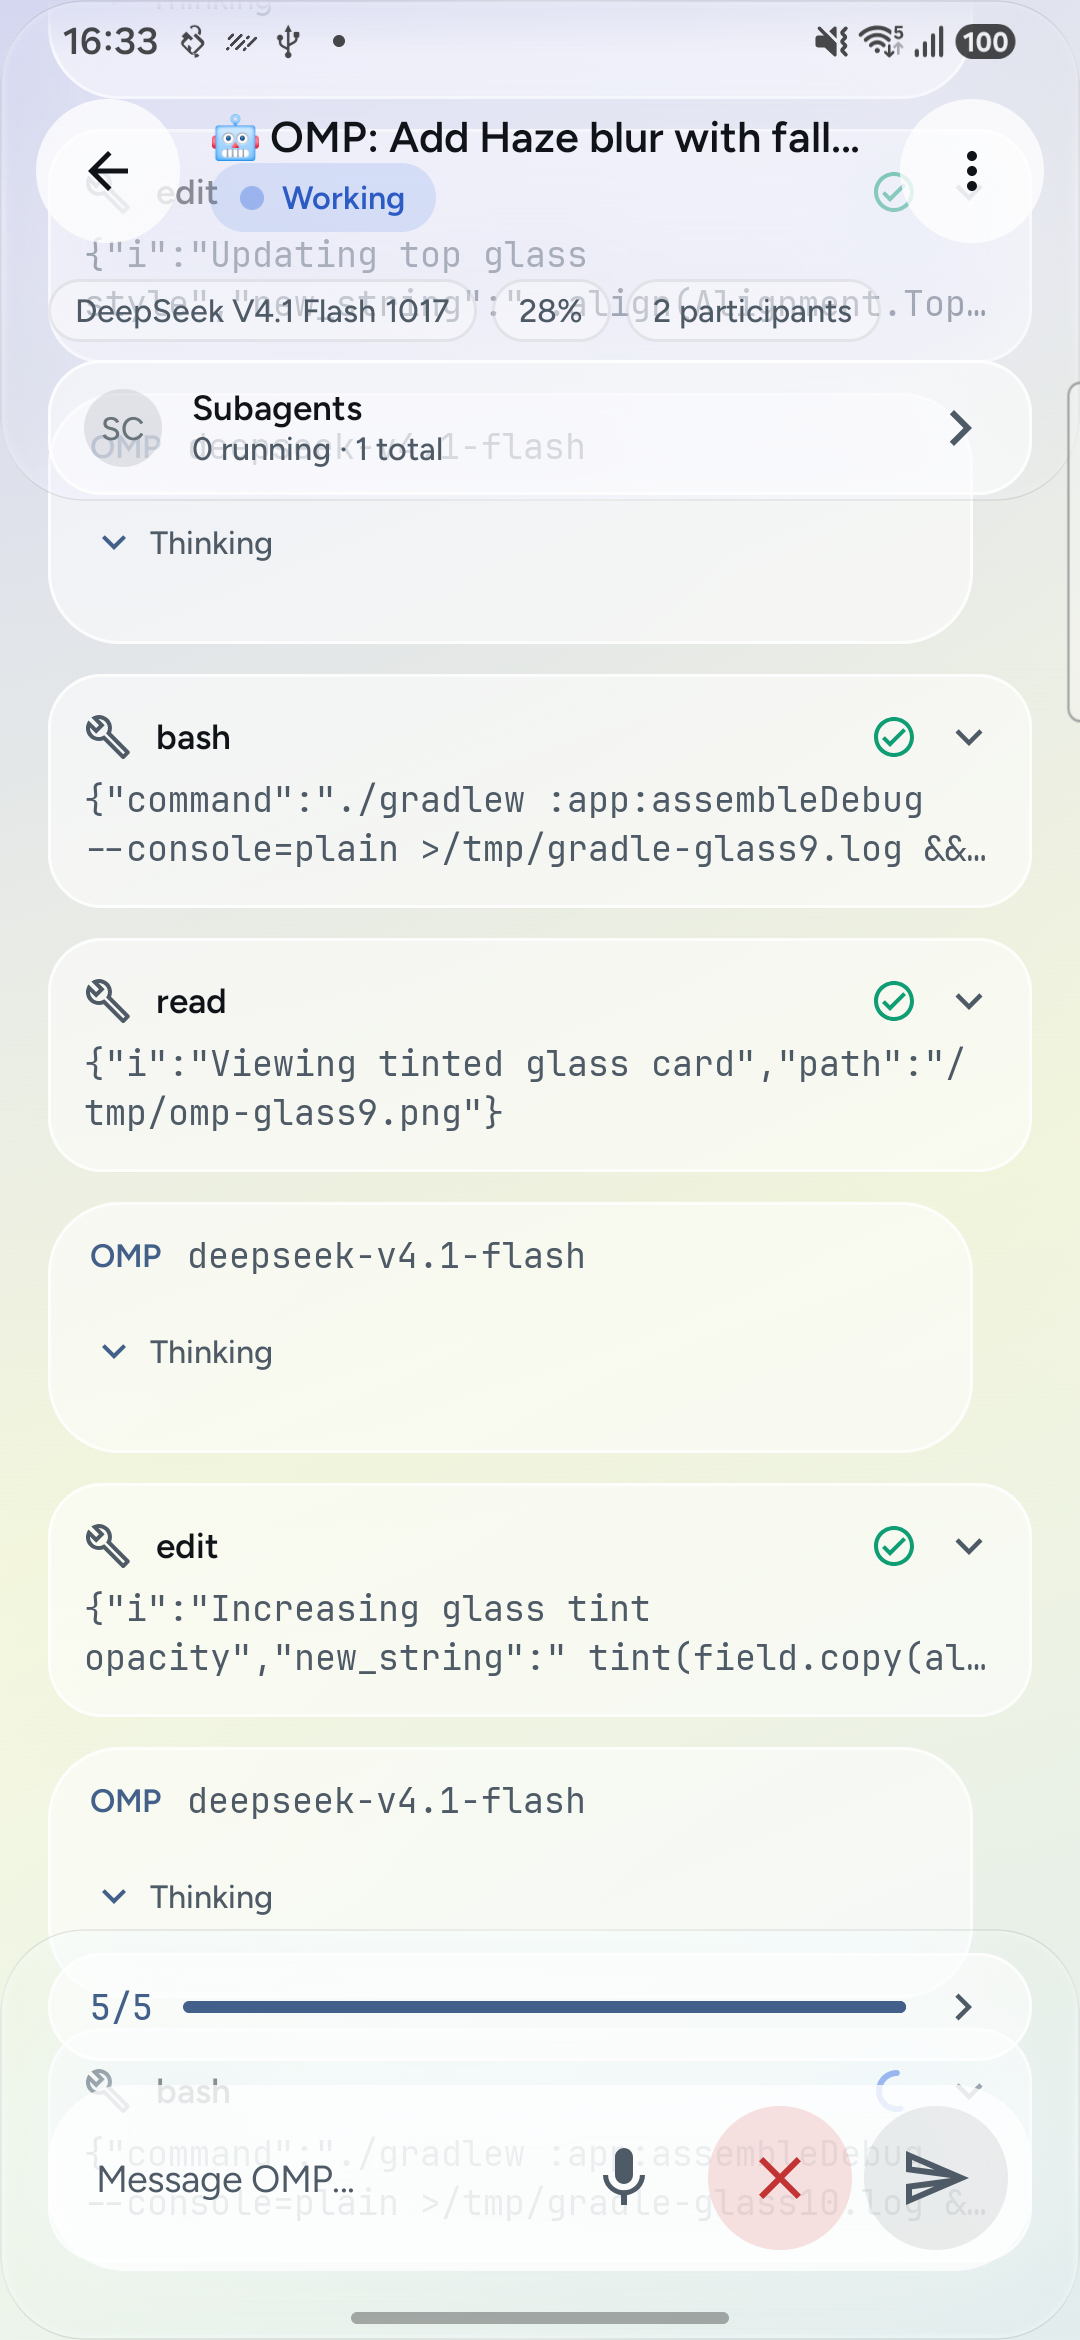
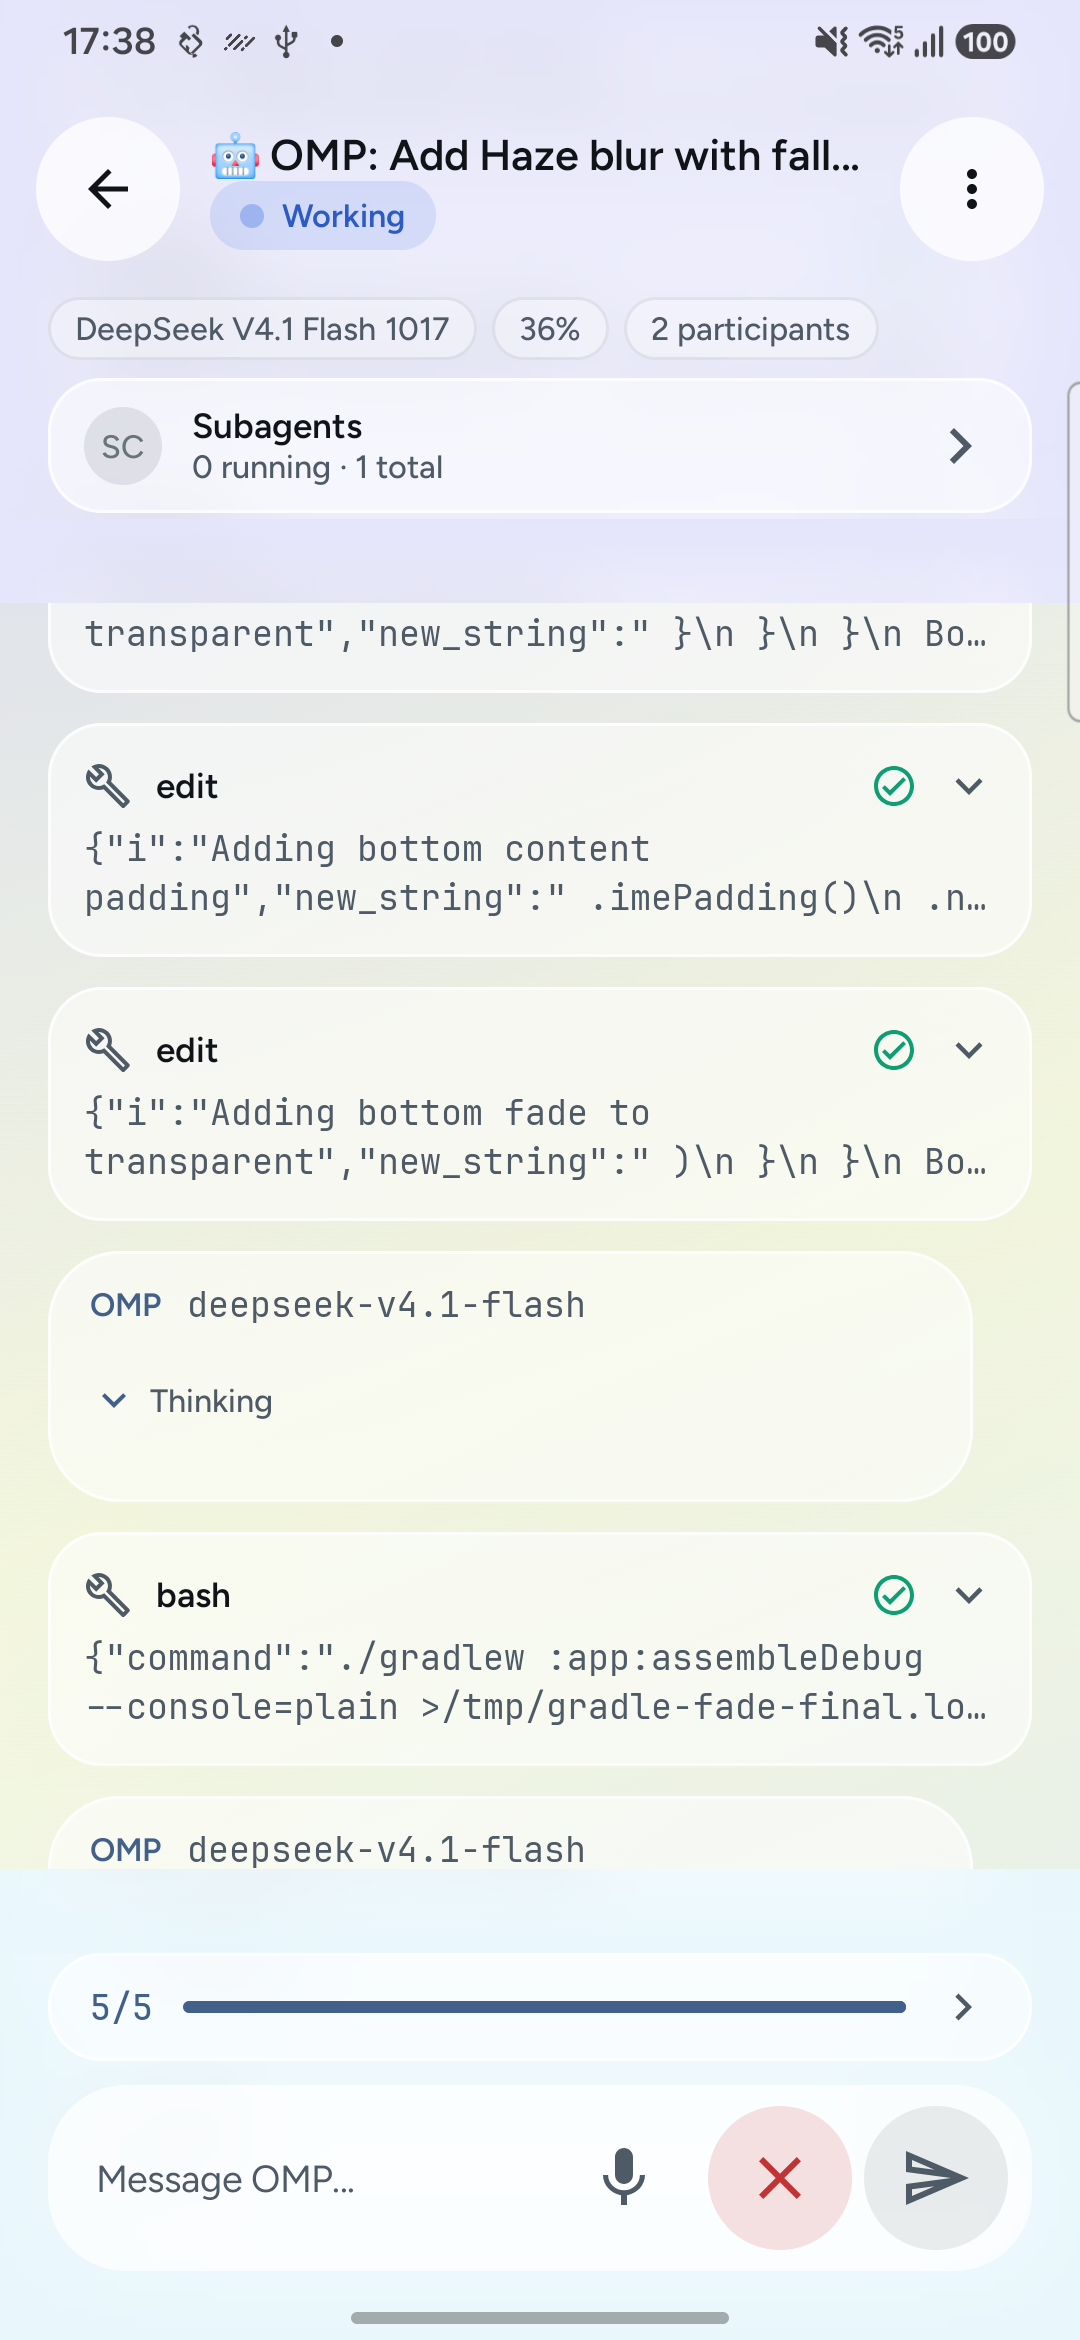
Add fade padding to chat chrome

diff --git a/app/src/main/kotlin/com/ompsessionconnect/ui/detail/SessionDetailScreen.kt b/app/src/main/kotlin/com/ompsessionconnect/ui/detail/SessionDetailScreen.kt
@@ -1,7 +1,4 @@
-@file:OptIn(
-  androidx.compose.material3.ExperimentalMaterial3Api::class,
-  dev.chrisbanes.haze.ExperimentalHazeApi::class,
-)
+@file:OptIn(androidx.compose.material3.ExperimentalMaterial3Api::class)
 
 package com.ompsessionconnect.ui.detail
 
@@ -93,7 +90,8 @@ import androidx.compose.ui.graphics.Color
 import androidx.compose.ui.draw.clip
 import androidx.compose.ui.zIndex
 import android.os.Build
-import androidx.compose.foundation.shape.RoundedCornerShape
+import androidx.compose.ui.draw.BlurredEdgeTreatment
+import androidx.compose.ui.graphics.Brush
 import androidx.compose.ui.graphics.SolidColor
 import androidx.compose.ui.platform.LocalContext
 import androidx.compose.ui.platform.LocalResources
@@ -141,10 +139,9 @@ import com.ompsessionconnect.ui.theme.LocalSessionStatusColors
 import dev.chrisbanes.haze.HazeInput
 import dev.chrisbanes.haze.hazeSource
 import dev.chrisbanes.haze.rememberHazeState
-import dev.chrisbanes.haze.glass.GlassDefaults
-import dev.chrisbanes.haze.glass.GlassStyle
-import dev.chrisbanes.haze.glass.OpticalSizeValue
-import dev.chrisbanes.haze.glass.hazeGlass
+import dev.chrisbanes.haze.blur.HazeBlurStyle
+import dev.chrisbanes.haze.blur.HazeColorEffect
+import dev.chrisbanes.haze.blur.hazeBlur
 import androidx.lifecycle.Lifecycle
 import androidx.lifecycle.LifecycleEventObserver
 import androidx.lifecycle.compose.LocalLifecycleOwner
@@ -223,21 +220,18 @@ fun SessionDetailScreen(
   }
 }
 
-private val ChromeGlassShape = RoundedCornerShape(28.dp)
+private val ChromeFade = 28.dp
 
-private fun chromeGlassStyle(field: Color, dark: Boolean): GlassStyle = GlassStyle {
-  backgroundColor(Color.Transparent)
-  tint(field.copy(alpha = if (dark) 0.72f else 0.62f))
-  shape(ChromeGlassShape)
-  optics(
-    GlassDefaults.optics.copy(
-      depth = OpticalSizeValue.Fixed(1f),
-      refractionStrength = 0.9f,
-      refractionDisplacement = 48.dp,
-      refractionFoldStrength = 0.65f,
-      refractionDetailIntensity = 0.76f,
+private fun chromeBlurStyle(field: Color, dark: Boolean): HazeBlurStyle = HazeBlurStyle {
+  blurRadius(24.dp)
+  backgroundColor(field)
+  colorEffects(
+    listOf(
+      HazeColorEffect.tint(field.copy(alpha = if (dark) 0.45f else 0.35f)),
     ),
   )
+  blurredEdgeTreatment(BlurredEdgeTreatment.Rectangle)
+  noiseFactor(0f)
 }
 
 @Composable
@@ -346,20 +340,18 @@ private fun SessionDetailContent(
 
   val blurAvailable = Build.VERSION.SDK_INT >= Build.VERSION_CODES.S
   val legacyInsets = !blurAvailable
-  val topGlassStyle = remember(tokens.fieldA, tokens.dark) {
-    chromeGlassStyle(tokens.fieldA, tokens.dark)
+  val topBlurStyle = remember(tokens.fieldA, tokens.dark) {
+    chromeBlurStyle(tokens.fieldA, tokens.dark)
   }
-  val bottomGlassStyle = remember(tokens.fieldC, tokens.dark) {
-    chromeGlassStyle(tokens.fieldC, tokens.dark)
+  val bottomBlurStyle = remember(tokens.fieldC, tokens.dark) {
+    chromeBlurStyle(tokens.fieldC, tokens.dark)
   }
-  fun chromeGlass(style: GlassStyle): Modifier =
+  fun chromeBlur(style: HazeBlurStyle): Modifier =
     if (blurAvailable) {
-      Modifier
-        .clip(ChromeGlassShape)
-        .hazeGlass(
-          input = HazeInput.Sources(hazeState),
-          style = style,
-        )
+      Modifier.hazeBlur(
+        input = HazeInput.Sources(hazeState),
+        style = style,
+      )
     } else {
       Modifier
     }
@@ -427,7 +419,7 @@ private fun SessionDetailContent(
         .align(Alignment.TopCenter)
         .fillMaxWidth()
         .zIndex(3f)
-        .then(chromeGlass(topGlassStyle))
+        .then(chromeBlur(topBlurStyle))
         .then(
           if (blurAvailable) {
             Modifier
@@ -440,7 +432,8 @@ private fun SessionDetailContent(
         modifier = Modifier
           .fillMaxWidth()
           .zIndex(2f)
-          .statusBarsPadding(),
+          .statusBarsPadding()
+          .padding(top = 6.dp, bottom = ChromeFade),
       ) {
         Row(
           modifier = Modifier.padding(horizontal = 12.dp, vertical = 8.dp),
@@ -530,6 +523,18 @@ private fun SessionDetailContent(
           }
         }
       }
+      Box(
+        modifier = Modifier
+          .align(Alignment.BottomCenter)
+          .fillMaxWidth()
+          .height(ChromeFade)
+          .zIndex(3f)
+          .background(
+            Brush.verticalGradient(
+              colors = listOf(tokens.fieldA, Color.Transparent),
+            ),
+          ),
+      )
     }
 
     Box(
@@ -537,7 +542,7 @@ private fun SessionDetailContent(
         .align(Alignment.BottomCenter)
         .fillMaxWidth()
         .zIndex(3f)
-        .then(chromeGlass(bottomGlassStyle)),
+        .then(chromeBlur(bottomBlurStyle)),
     ) {
       if (snapshot != null) {
         Column(
@@ -546,7 +551,7 @@ private fun SessionDetailContent(
             .zIndex(2f)
             .imePadding()
             .navigationBarsPadding()
-            .padding(horizontal = 16.dp, vertical = 8.dp),
+            .padding(start = 16.dp, top = ChromeFade, end = 16.dp, bottom = 8.dp),
           verticalArrangement = Arrangement.spacedBy(8.dp),
         ) {
           snapshot.todos?.let { todos ->
@@ -622,6 +627,18 @@ private fun SessionDetailContent(
           )
         }
       }
+      Box(
+        modifier = Modifier
+          .align(Alignment.TopCenter)
+          .fillMaxWidth()
+          .height(ChromeFade)
+          .zIndex(3f)
+          .background(
+            Brush.verticalGradient(
+              colors = listOf(Color.Transparent, tokens.fieldC),
+            ),
+          ),
+      )
     }
 
     SnackbarHost(
